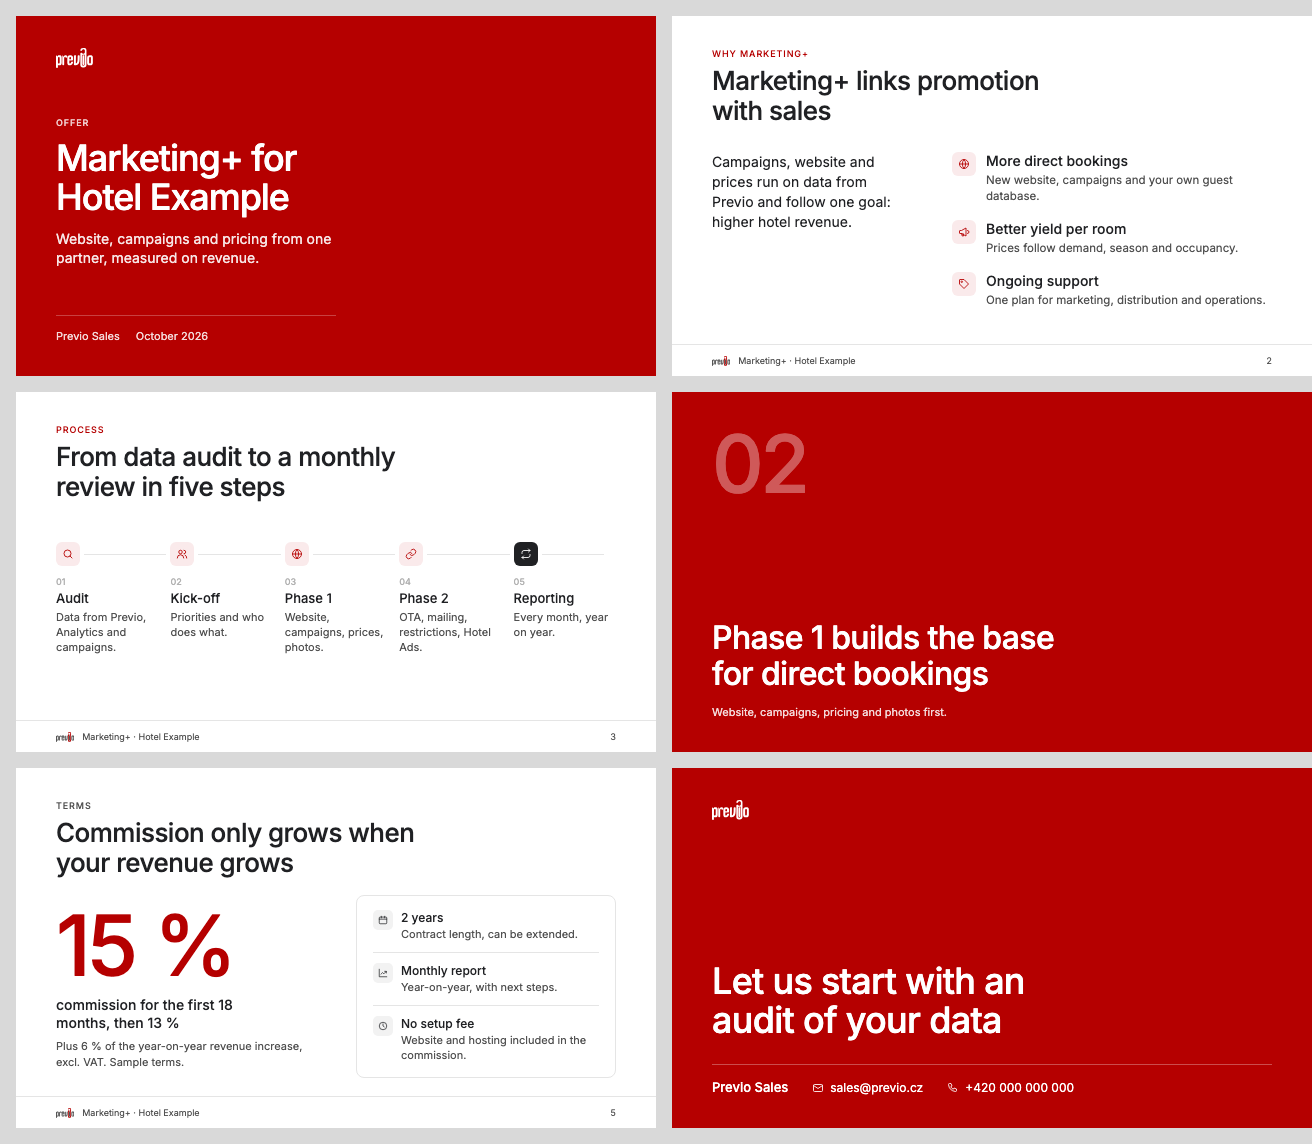
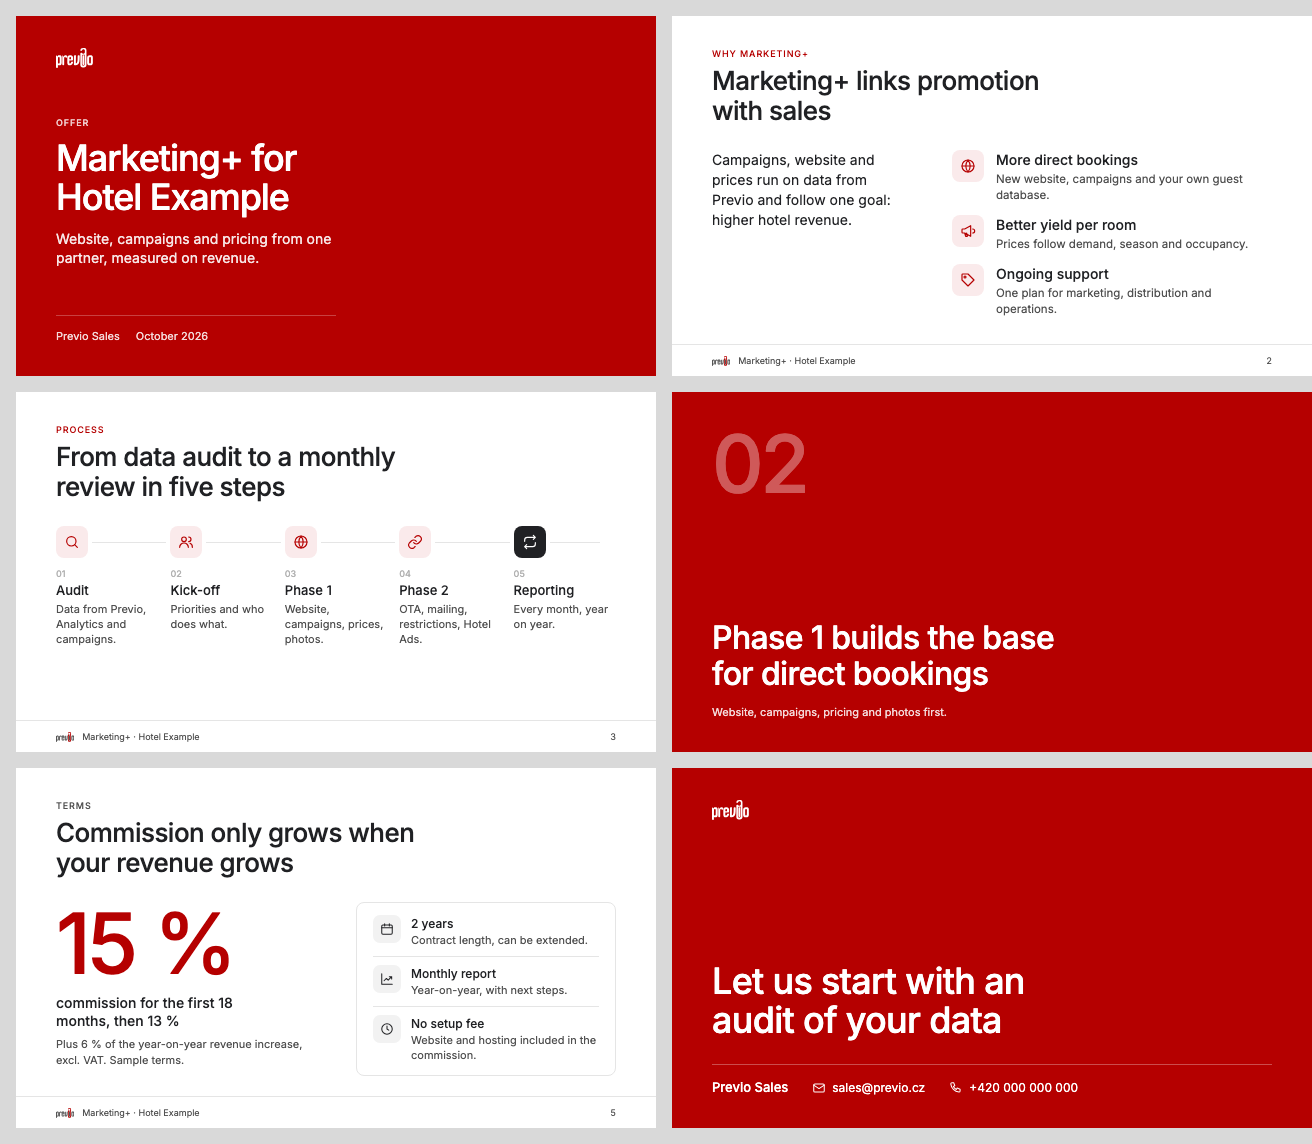
Deck: pevná mřížka obsahu a větší ikony
Obsah na content slidech začíná vždy na stejném místě (nadpis rezervuje
dva řádky, obsah ukotvený nahoru), dlaždice ikon 64 px místo 48 px.
Pravidla doplněna do deck-structure.md (sekce Grid) a kontroly.

diff --git a/previo-brand/templates/deck.html b/previo-brand/templates/deck.html
@@ -41,6 +41,8 @@ body { font: 400 22px/32px var(--font); color: var(--ink); }
 .label { font: 500 18px/24px var(--font-medium); letter-spacing: .1em; text-transform: uppercase; color: var(--primary); }
 .label--gray { color: var(--muted); }
 h2 { font: 500 52px/60px var(--font-medium); letter-spacing: -.02em; margin: 12px 0 0; max-width: 22ch; }
+/* fixed grid: the headline box always reserves two lines, so content starts at the same y (268 px) on every content slide */
+.slide:not(.slide--red) h2 { min-height: 120px; }
 .lead { margin: 16px 0 0; color: var(--muted); max-width: 52ch; }
 .foot { margin-top: auto; height: 64px; display: flex; align-items: center; gap: 16px; font-size: 18px; color: var(--muted); border-top: 1px solid var(--border); margin-left: -80px; margin-right: -80px; padding: 0 80px; }
 .foot .logo svg { height: 20px; }
@@ -64,21 +66,23 @@ h2 { font: 500 52px/60px var(--font-medium); letter-spacing: -.02em; margin: 12p
 .statement .lead { color: #fff; opacity: .85; margin-top: 24px; }
 
 /* icon tile: the small signal that marks a list item */
-.tile { display: block; flex: none; width: 48px; height: 48px; border-radius: 12px; background: var(--primary-soft); color: var(--primary); padding: 12px; }
+.tile { display: block; flex: none; width: 64px; height: 64px; border-radius: 16px; background: var(--primary-soft); color: var(--primary); padding: 16px; }
 .tile--ink { background: var(--surface); color: var(--ink); }
 
 /* layout: intro + list (asymmetric) */
-.split { display: grid; grid-template-columns: 400px 1fr; gap: 80px; margin: auto 0; padding: 32px 0; }
+/* content blocks are anchored to the top (never vertically centred), 48 px below the headline box */
+.split { display: grid; grid-template-columns: 400px 1fr; gap: 80px; margin: 48px 0 0; }
 .split .intro { font-size: 28px; line-height: 40px; color: var(--ink); }
 .split .intro p { margin: 0; }
-.list { display: flex; flex-direction: column; gap: 32px; }
-.item { display: flex; gap: 20px; align-items: flex-start; }
+.list { display: flex; flex-direction: column; gap: 24px; }
+.item { display: flex; gap: 24px; align-items: flex-start; }
+.item h3 { padding-top: 2px; }
 .item h3 { font: 500 28px/36px var(--font-medium); margin: 0; }
 .item p { margin: 4px 0 0; color: var(--muted); font-size: 23px; line-height: 32px; }
 
 /* timeline */
-.steps { display: grid; grid-template-columns: repeat(var(--n, 5), 1fr); gap: 24px; margin: auto 0; padding: 32px 0; position: relative; }
-.steps::before { content: ""; position: absolute; left: 24px; right: 24px; top: 56px; border-top: 2px solid var(--border); }
+.steps { display: grid; grid-template-columns: repeat(var(--n, 5), 1fr); gap: 24px; margin: 48px 0 0; position: relative; }
+.steps::before { content: ""; position: absolute; left: 32px; right: 32px; top: 32px; border-top: 2px solid var(--border); }
 .step { position: relative; }
 .step .tile { box-shadow: 0 0 0 8px #fff; }
 .step .n { display: block; margin-top: 20px; font: 500 18px/24px var(--font-medium); color: var(--gray-400); }
@@ -87,15 +91,15 @@ h2 { font: 500 52px/60px var(--font-medium); letter-spacing: -.02em; margin: 12p
 .step--loop .tile { background: var(--ink); color: #fff; }
 
 /* number hero + facts */
-.hero { display: grid; grid-template-columns: 1fr 520px; gap: 80px; margin: auto 0; padding: 32px 0; align-items: center; }
+.hero { display: grid; grid-template-columns: 1fr 520px; gap: 80px; margin: 48px 0 0; align-items: start; }
 .big { font: 500 168px/1 var(--font-medium); letter-spacing: -.04em; color: var(--primary); }
 .hero .what { font: 500 28px/36px var(--font-medium); margin: 16px 0 0; max-width: 22ch; }
 .hero .src { color: var(--muted); font-size: 22px; margin: 12px 0 0; }
 .facts { border: 1px solid var(--border); border-radius: 16px; padding: 8px 32px; }
-.fact { display: flex; gap: 16px; padding: 20px 0; border-bottom: 1px solid var(--border); }
+.fact { display: flex; gap: 20px; padding: 16px 0; border-bottom: 1px solid var(--border); }
 .fact:last-child { border-bottom: 0; }
-.fact .tile { width: 40px; height: 40px; padding: 10px; border-radius: 10px; }
-.fact h3 { font: 500 24px/32px var(--font-medium); margin: 0; }
+.fact .tile { width: 56px; height: 56px; padding: 14px; border-radius: 14px; }
+.fact h3 { font: 500 24px/32px var(--font-medium); margin: 0; padding-top: 2px; }
 .fact p { margin: 2px 0 0; color: var(--muted); font-size: 22px; line-height: 30px; }
 
 /* closing */
@@ -103,7 +107,7 @@ h2 { font: 500 52px/60px var(--font-medium); letter-spacing: -.02em; margin: 12p
 .closing .contact { display: flex; gap: 48px; margin-top: 48px; padding-top: 28px; border-top: 1px solid rgba(255,255,255,.3); font-size: 24px; }
 .closing .contact .who { font: 500 26px/34px var(--font-medium); }
 .closing .contact span { display: flex; align-items: center; gap: 12px; }
-.closing .ico { width: 24px; height: 24px; }
+.closing .ico { width: 28px; height: 28px; }
 </style>
 </head>
 <body>

diff --git a/tools/src/deck.html b/tools/src/deck.html
@@ -40,6 +40,8 @@ body { font: 400 22px/32px var(--font); color: var(--ink); }
 .label { font: 500 18px/24px var(--font-medium); letter-spacing: .1em; text-transform: uppercase; color: var(--primary); }
 .label--gray { color: var(--muted); }
 h2 { font: 500 52px/60px var(--font-medium); letter-spacing: -.02em; margin: 12px 0 0; max-width: 22ch; }
+/* fixed grid: the headline box always reserves two lines, so content starts at the same y (268 px) on every content slide */
+.slide:not(.slide--red) h2 { min-height: 120px; }
 .lead { margin: 16px 0 0; color: var(--muted); max-width: 52ch; }
 .foot { margin-top: auto; height: 64px; display: flex; align-items: center; gap: 16px; font-size: 18px; color: var(--muted); border-top: 1px solid var(--border); margin-left: -80px; margin-right: -80px; padding: 0 80px; }
 .foot .logo svg { height: 20px; }
@@ -63,21 +65,23 @@ h2 { font: 500 52px/60px var(--font-medium); letter-spacing: -.02em; margin: 12p
 .statement .lead { color: #fff; opacity: .85; margin-top: 24px; }
 
 /* icon tile: the small signal that marks a list item */
-.tile { display: block; flex: none; width: 48px; height: 48px; border-radius: 12px; background: var(--primary-soft); color: var(--primary); padding: 12px; }
+.tile { display: block; flex: none; width: 64px; height: 64px; border-radius: 16px; background: var(--primary-soft); color: var(--primary); padding: 16px; }
 .tile--ink { background: var(--surface); color: var(--ink); }
 
 /* layout: intro + list (asymmetric) */
-.split { display: grid; grid-template-columns: 400px 1fr; gap: 80px; margin: auto 0; padding: 32px 0; }
+/* content blocks are anchored to the top (never vertically centred), 48 px below the headline box */
+.split { display: grid; grid-template-columns: 400px 1fr; gap: 80px; margin: 48px 0 0; }
 .split .intro { font-size: 28px; line-height: 40px; color: var(--ink); }
 .split .intro p { margin: 0; }
-.list { display: flex; flex-direction: column; gap: 32px; }
-.item { display: flex; gap: 20px; align-items: flex-start; }
+.list { display: flex; flex-direction: column; gap: 24px; }
+.item { display: flex; gap: 24px; align-items: flex-start; }
+.item h3 { padding-top: 2px; }
 .item h3 { font: 500 28px/36px var(--font-medium); margin: 0; }
 .item p { margin: 4px 0 0; color: var(--muted); font-size: 23px; line-height: 32px; }
 
 /* timeline */
-.steps { display: grid; grid-template-columns: repeat(var(--n, 5), 1fr); gap: 24px; margin: auto 0; padding: 32px 0; position: relative; }
-.steps::before { content: ""; position: absolute; left: 24px; right: 24px; top: 56px; border-top: 2px solid var(--border); }
+.steps { display: grid; grid-template-columns: repeat(var(--n, 5), 1fr); gap: 24px; margin: 48px 0 0; position: relative; }
+.steps::before { content: ""; position: absolute; left: 32px; right: 32px; top: 32px; border-top: 2px solid var(--border); }
 .step { position: relative; }
 .step .tile { box-shadow: 0 0 0 8px #fff; }
 .step .n { display: block; margin-top: 20px; font: 500 18px/24px var(--font-medium); color: var(--gray-400); }
@@ -86,15 +90,15 @@ h2 { font: 500 52px/60px var(--font-medium); letter-spacing: -.02em; margin: 12p
 .step--loop .tile { background: var(--ink); color: #fff; }
 
 /* number hero + facts */
-.hero { display: grid; grid-template-columns: 1fr 520px; gap: 80px; margin: auto 0; padding: 32px 0; align-items: center; }
+.hero { display: grid; grid-template-columns: 1fr 520px; gap: 80px; margin: 48px 0 0; align-items: start; }
 .big { font: 500 168px/1 var(--font-medium); letter-spacing: -.04em; color: var(--primary); }
 .hero .what { font: 500 28px/36px var(--font-medium); margin: 16px 0 0; max-width: 22ch; }
 .hero .src { color: var(--muted); font-size: 22px; margin: 12px 0 0; }
 .facts { border: 1px solid var(--border); border-radius: 16px; padding: 8px 32px; }
-.fact { display: flex; gap: 16px; padding: 20px 0; border-bottom: 1px solid var(--border); }
+.fact { display: flex; gap: 20px; padding: 16px 0; border-bottom: 1px solid var(--border); }
 .fact:last-child { border-bottom: 0; }
-.fact .tile { width: 40px; height: 40px; padding: 10px; border-radius: 10px; }
-.fact h3 { font: 500 24px/32px var(--font-medium); margin: 0; }
+.fact .tile { width: 56px; height: 56px; padding: 14px; border-radius: 14px; }
+.fact h3 { font: 500 24px/32px var(--font-medium); margin: 0; padding-top: 2px; }
 .fact p { margin: 2px 0 0; color: var(--muted); font-size: 22px; line-height: 30px; }
 
 /* closing */
@@ -102,7 +106,7 @@ h2 { font: 500 52px/60px var(--font-medium); letter-spacing: -.02em; margin: 12p
 .closing .contact { display: flex; gap: 48px; margin-top: 48px; padding-top: 28px; border-top: 1px solid rgba(255,255,255,.3); font-size: 24px; }
 .closing .contact .who { font: 500 26px/34px var(--font-medium); }
 .closing .contact span { display: flex; align-items: center; gap: 12px; }
-.closing .ico { width: 24px; height: 24px; }
+.closing .ico { width: 28px; height: 28px; }
 </style>
 </head>
 <body>

diff --git a/previo-brand/templates/deck-structure.md b/previo-brand/templates/deck-structure.md
@@ -51,7 +51,30 @@ PNGs from `icons/png/<name>-<red|ink|white>.png`; in HTML paste the SVG inline (
   - red slide: icon **white**, no tile.
 - An icon marks **what kind of item** it is (web, campaign, price, report). One icon per list
   item, same size within a slide. No icons as decoration, no icons from another set, no emoji.
-- Sizes (pptx): tile 0.5 in (36 pt) with a 0.25 in icon in lists; 0.42 in tile in compact lists.
+- Sizes: tile **0.5 in (64 px)** with a **0.25 in (32 px)** icon in lists and timelines; 0.44 in
+  (56 px) tile with a 0.22 in icon in a compact facts box. Never smaller: a tile below 0.44 in reads
+  as a dot, not an icon. The icon is always half the tile, centred.
+
+## Grid: every content slide starts in the same place
+
+Paging through the deck, the label, headline and content must not jump. Use these fixed positions
+on **every** white content slide (px in `deck.html` → inches on a 10 × 5.625 in slide, 128 px = 1 in):
+
+| Element | Position |
+|---|---|
+| Side margins | 80 px = 0.625 in left and right |
+| Section label | top 64 px = 0.5 in |
+| Headline box | top 100 px = 0.78 in, height **always two lines** (120 px = 0.94 in), even for a one-line headline; text anchored to the top |
+| Content block | top **268 px = 2.09 in**, anchored to the top, never vertically centred |
+| Footer | line at 656 px = 5.125 in |
+| Intro + list | intro column 400 px = 3.125 in wide; list starts at x 560 px = 4.375 in |
+
+- In python-pptx set the headline text frame to `vertical_anchor = TOP` and `auto_size = NONE`, the
+  same size on every slide; never let PowerPoint shrink or grow it.
+- List items: fixed gap (24 px = 0.19 in) between items, title aligned to the top of the icon tile.
+  Two columns on one slide share the same top and the same row positions.
+- Same element = same position across slides: if slide 4 has a list at x 4.375 in, slide 7 does not
+  put it at 4.1 in. Reuse the measurements, do not eyeball them.
 
 ## Photos
 
@@ -105,6 +128,9 @@ pptx skill's own renderer) and look at **every** slide:
 6. Content is consistent: same product name everywhere, no slide promising what another excludes
    (e.g. "Meta Ads in phase 1" vs. "Meta campaigns are not included").
 7. Fonts are Inter / Inter Medium on every run (no Calibri/Arial left from defaults).
+8. Grid: page through the slides quickly; label, headline and content start at the same place on
+   every content slide (see **Grid**). Nothing jumps.
+9. Icons: tiles at least 0.5 in (0.44 in in a facts box), icon half the tile, same size on a slide.
 
 ## RGB for python-pptx
 

diff --git a/previo-brand/SKILL.md b/previo-brand/SKILL.md
@@ -180,7 +180,8 @@ arrow). Use only these; never mix in another set or emoji.
 - **HTML/PDF:** paste the SVG inline; it uses `currentColor`, so the parent sets the color.
 - **.pptx:** insert `icons/png/<name>-red.png`, `-ink.png` or `-white.png` (256 px, transparent).
 - **Icon tile** (the standard way to use an icon next to text): rounded square, icon at half its
-  size. Red icon on `#faeaeb` by default; ink icon on `#f2f2f2` when the slide/page has a red number
+  size. In a deck the tile is 0.5 in (64 px at 1280 px width), never smaller than 0.44 in; small
+  icons look like dots. Red icon on `#faeaeb` by default; ink icon on `#f2f2f2` when the slide/page has a red number
   hero; white icon without a tile on red or dark areas.
 - One icon per item, labelling what the item is. Not on every line of text, not as decoration.
 - Missing icon? Pick the closest one and mention the gap in the feedback note (see the end).
